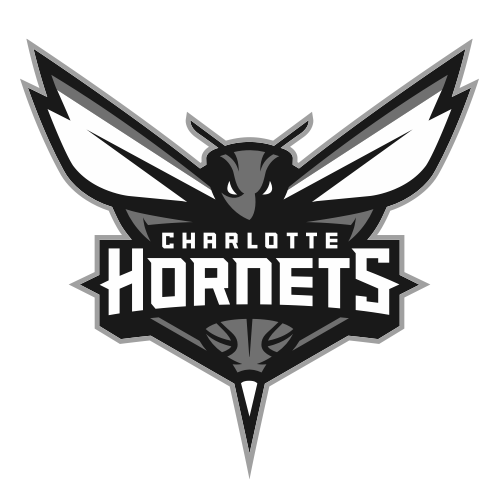
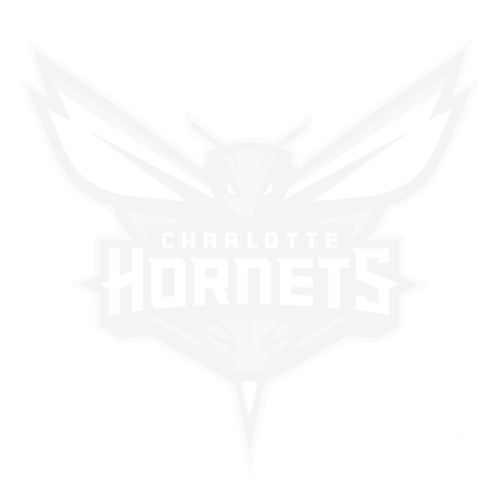
images

Changed region(s): [[0.03, 0.06, 0.96, 0.96]]

diff --git a/src/assets/css/themes.scss b/src/assets/css/themes.scss
@@ -4,7 +4,7 @@
   --baseColorAlt: #335cab;
   --secondColor: #1d428a;
   --secondColorAlt: #335cab;
-  --backgroundTeamLogo: url('./assets/site_images/basketball.svg') no-repeat 50%
+  --backgroundTeamLogo: url('./assets/site_images/basketball.png') no-repeat 50%
     70%;
 }
 :root.atlanta {

diff --git a/src/App.vue b/src/App.vue
@@ -135,8 +135,7 @@ export default {
 @import "@/assets/css/themes.scss";
 html {
   height: 100%;
-  background: linear-gradient(rgba(#efefef, 0.96), rgba(#efefef, 0.96)),
-    var(--backgroundTeamLogo);
+  background: var(--backgroundTeamLogo);
 }
 .bball-background {
   display: block;
